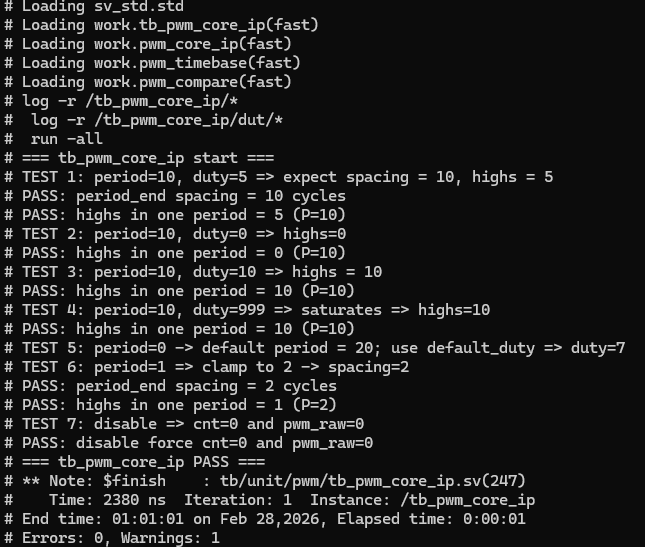
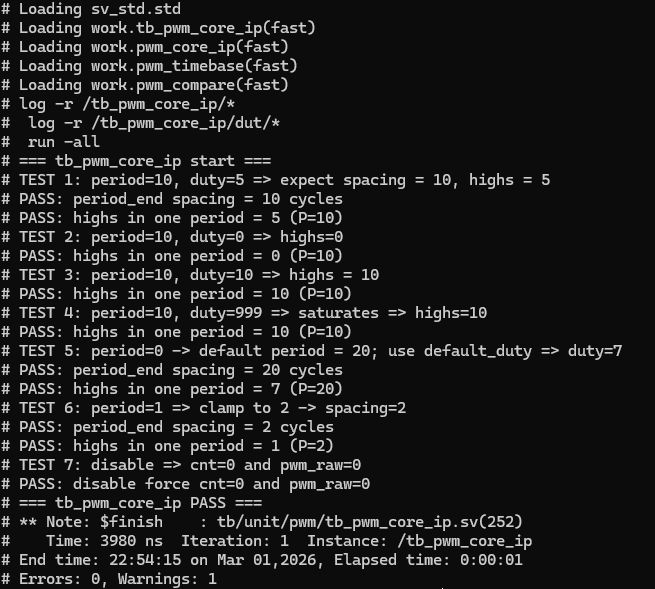
updated Notebook, updated screenshots
Test was missing Test 5: Added the helper tasks. Then updated the Notebook and updated the screenshots after fixing the tb_pwm_core_ip.sv

Changed region(s): [[0.0, 0.0, 0.9612, 1.0]]

diff --git a/docs/notebook/ENG_NOTEBOOK_PWM.md b/docs/notebook/ENG_NOTEBOOK_PWM.md
@@ -64,32 +64,32 @@
   - `tb/unit/pwm/tb_pwm_compare.sv`
   - `tb/unit/pwm/tb_pwm_timebase.sv`
 
-- [ ] Write the code:
+- [x] Write the code:
   - [x] `pwm_timebase.sv`
   - [x] `pwm_compare.sv`
-  - [ ] `pwm_core_ip.sv`
+  - [x] `pwm_core_ip.sv`
 
-- [ ] Write the testbench:
-  - [ ] `tb_pwm_core_ip.sv`
+- [x] Write the testbench:
+  - [x] `tb_pwm_core_ip.sv`
   - [x] `tb_pwm_timebase.sv`
   - [x] `tb_pwm_compare.sv`
 
-- [ ] Run simulation (Questa Altera)
+- [x] Run simulation (Questa Altera)
   - [x] Create work library under `build/sim/work`
   - [x] Compile RTL + TB for tb_pwm_timebase
   - [x] Create waveform for tb_pwm_timebase
   
   - [x] Create work library under `build/sim/work`
   - [x] Create waveform for tb_pwm_compare
-  - [ ] Compile RTL + TB for tb_pwm_core
+  - [x] Compile RTL + TB for tb_pwm_core
 
-  - [ ] Run TB in command-line mode
-  - [ ] Save transcript to `build/sim/logs/tb_pwm_core_ip.txt`
-  - [ ] Dump waveform to `build/simwaves/tb_pwm_core_ip.wlf`
+  - [x] Run TB in command-line mode
+  - [x] Save transcript to `build/sim/logs/tb_pwm_core_ip.txt`
+  - [x]Dump waveform to `build/simwaves/tb_pwm_core_ip.wlf`
 
-- [ ] Open waveform:
-  - [ ] Inspect `cnt`, `period_end`, `period_cycles`, `duty_cycles`, `pwm_raw`
-  - [ ] Screenshot: `docs/notebook/img/date_pwm_core10khz_50pct.png`
+- [x] Open waveform:
+  - [x] Inspect `cnt`, `period_end`, `period_cycles`, `duty_cycles`, `pwm_raw`
+  - [x] Screenshot: `docs/notebook/img/2026-03-01 - tb_pwm_core_ip - waveform`
 
 
 ### Test Plan (core) Period = 10 unless stated otherwise (test done on Feb. 28, 2026)
@@ -104,15 +104,16 @@
 ### Results
 | Test | Expected | Observed | Pass/Fail | Notes|
 |---|---|---|---| ---|
-| T1 | - | - | - | - |
-| T2 | - | - | - | - |
-| T3 | - | - | - | - |
-| T4| - | - | - | - |
-| T5| - | - | - | - |
+| T1 | duty = 5 | duty% = 50% | Pass | used period cycles = 10 |
+| T2 | duty = 0 | duty% = 0% | Pass | pure "off" test |
+| T3 | duty = 10 | duty% = 100% | Pass | used period cycles = 10 |
+| T4 | duty = 999| duty% = 100% | Pass | Saturation test |
+| T5 | duty = 7, period = 20 | duty = 7, period = 20| Pass | period = 0 (enable default period), use_default_duty = 1, requested this: duty = 123, period = 0 |
+| T6 | period = 2 | period = 2 | Pass | period was set to 1, as safenet, it should be always greater than 1, so 2 by default |
+| T7 | duty = 0 | duty% = 0 | Pass | pwm shuts down when disabled |
 
-### Evidence (waveforms / screenshots)
-- Waveform capture: `docs/notebook/img/file.png`
-- VCD file: `sim/out/tb_pwm_cre.vcd`
+### Evidence (waveforms / screenshots) (March 1, 2026)
+- Waveform capture: `docs/notebook/img/22026-03-01-tb_pwm_core_ip-waveform.png`
 
 ---
 
@@ -209,3 +210,5 @@ cnt ----------|                  |
 
 ## All simulation Tests passed
 ![All 7 test (core requirements for pwm module have passed)](img/tb_pwm_core_ip_worked.png)
+
+![Waveform screen shot of all 7 test](img/2026-03-01-tb_pwm_core_ip-waveform.png)
